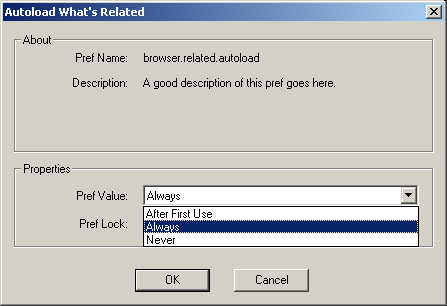
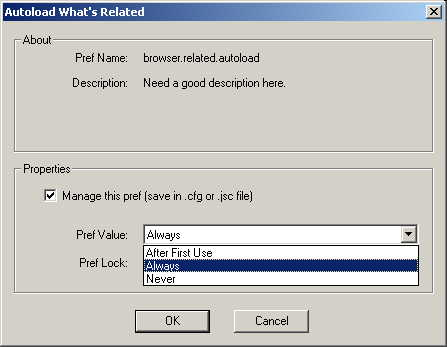
Added way to delete user-added prefs from the pref editor.

Changed region(s): [[0.0291, 0.4118, 0.9888, 0.9706], [0.0, 0.0, 0.9888, 0.2941]]

diff --git a/mozilla/cck/docs/prefstree/PrefsTreeFileFormat.htm b/mozilla/cck/docs/prefstree/PrefsTreeFileFormat.htm
@@ -1,5 +1,7 @@
 <!DOCTYPE html PUBLIC "-//W3C//DTD HTML 4.01 Transitional//EN"><html><head><meta http-equiv="content-type" content="text/html; charset=ISO-8859-1"><meta name="author" content="Steve Meredith"><title>Structure of the Pref Editor XML File for the PrefsTree Widget</title></head><body text="#000000" bgcolor="#ffffcc" link="#0000ff" alink="darkblue" vlink="#cc0000">
-<div align="Right">Removed elements <tt>INSTALLATIONFILE </tt>and <tt>PREFFILE.</tt> Changed <tt>processPrefsTree()</tt> number of params. &nbsp;&nbsp; 02 Jan 2002<br>
+<div align="right">Added <tt>useradded</tt> attribute&nbsp;&nbsp;&nbsp; 28 Jan 2002<br>
+Added the <tt>MANAGE </tt>element.&nbsp;&nbsp;&nbsp; <strike>24 Jan 2002</strike><br>
+Removed elements <tt>INSTALLATIONFILE </tt>and <tt>PREFFILE. </tt>Changed <tt>processPrefsTree()</tt> number of params. &nbsp;&nbsp; <strike>02 Jan 2002</strike><br>
 Removed <tt>choose </tt>attribute. &nbsp;&nbsp; <strike>13 Dec 2001</strike><br>
 Original version. &nbsp;&nbsp; <strike>11 Dec 2001</strike><br>
 Steve Meredith<br>
@@ -16,22 +18,45 @@ The name of the XML file is specified in the .ini section for the PrefsTree
 Widget. The default file must be located in the same directory as the <tt>WIZARDMACHINE.EXE</tt>
 . When used, a copy of the file is saved in the working config directory.
 This copy contains the changes made by the CCK/Factory user, and is used
-by the install builder to write preferences in the install image. A SCRIPT.IB
-entry must be made in order for it process the .XML file: <tt>processPrefsTree(,browser.xpi,bin/netscp6.cfg</tt><tt>)</tt>
-. Note that spaces are not allowed between the parameters. For details on
+by the install builder to write preferences in the install image. A <tt>SCRIPT.IB</tt>
+entry must be made in order for it process the .XML file: <tt>processPrefsTree(,browser.xpi,bin/netscp6.cfg</tt><tt>)</tt>. Note that spaces are not allowed between the parameters. For details on
 adding a PrefsTree control to wizard pages, see the document&nbsp;<a href="PrefsTree.htm">PrefsTree.htm</a>
 
+<h2>A Note on Prefs</h2>The XML described herein contains elements for prefs and elements to control how they are
+grouped in a UI. It was specifically designed for use in this <i>Pref Editor</i>
+tree control, but a complete representation of prefs in XML could be useful
+in other ways. But for this use, the only prefs which should be included
+in this file are prefs which can be set in advance and saved to a .cfg or .jsc file.
+Note that this excludes some prefs which might be found in a profile <tt>prefs.js</tt>
+, such as those prefs which define specific mail and news accounts, servers,
+and identities. These pref names are generated on the fly by the client.
+If this XML is to be expanded for use in other ways, for example as described
+in <a href="http://bugzilla.mozilla.org/show_bug.cgi?id=17199">Bugzilla bug 17199</a>
+, new tags could be added to each pref to indicate whether or not it could
+be set in advance and stored in a .cfg file. The Pref Editor would have to
+be modified to respect this new information and only present the appropriate
+prefs for editting. Otherwise, any new elements and attributes are ignored
+as long as the basic structure of the file remains valid (<tt>&lt;PREF&gt;</tt>s are grouped within <tt>&lt;PREFSGROUP&gt;</tt>s) and the required attributes and subelements exist.<br>
+<br>
+The following prefs should not be placed into this XML file for use in the
+prefs editor because they are handled outside the prefs editor, and used
+to point to the file created by the install builder and prefs editor.<br>
+<ul>
+  <li><tt>autoadmin.global_config_url</tt></li>
+  <li><tt>autoadmin.append_emailaddr</tt></li>
+  <li><tt>autoadmin.offline_failover</tt></li>
+</ul>
 <h2>Who This Document is For</h2>
+
 <h2></h2>
 You will need to understand the structure of the XML file if you want to
-add or remove prefs to the Pref Editor or change how they are grouped.<br>
+add or remove prefs to the Pref Editor or change how they are grouped. <br>
 <h2>Conventions</h2>
 For XML item tags, we use ALL CAPS. For attribute names, we use lower case.
 &#8220;true&#8221; and &#8220;false&#8221; are also written in lower case. Generally, for PREF items,
 the attributes are those things about the pref which are fixed, and use elements
 for thing the CCK/Factory app will change. The exception is for <tt>&lt;CHOICES&gt;</tt>, which are difficult to represent as attributes, so these are elements.<br>
-<h2>General Structure</h2>
-<h3>Example 1</h3>
+<h2>General Structure</h2><h3>Example 1</h3>
 The simplest file that may exist consists of one group containing one pref. <br>
 <br>
 <code>&lt;?xml version="1.0"?&gt;<br>
@@ -106,19 +131,19 @@ Each <tt>&lt;PREFSGROUP&gt;</tt> element will make a new level of hierarchy in t
 <table cellpadding="2" cellspacing="2" border="1" width="100%" bgcolor="#ffffff">
   <tbody>
     <tr>
-      <td valign="Top"><b>Attribute</b><br>
+      <td valign="top"><b>Attribute</b><br>
       </td>
-      <td valign="Top"><b>Example</b><br>
+      <td valign="top"><b>Example</b><br>
       </td>
-      <td valign="Top"><b>Description</b><br>
+      <td valign="top"><b>Description</b><br>
       </td>
     </tr>
     <tr>
-      <td valign="Top"><tt>uiname</tt><br>
+      <td valign="top"><tt>uiname</tt><br>
       </td>
-      <td valign="Top"><tt>uiname="Netscape Preferences"</tt><br>
+      <td valign="top"><tt>uiname="Netscape Preferences"</tt><br>
       </td>
-      <td valign="Top">This is the name of the group as it appears in the tree control. <br>
+      <td valign="top">This is the name of the group as it appears in the tree control. <br>
       </td>
     </tr>
   </tbody>
@@ -130,36 +155,36 @@ the user can edit.These elements must be contained in some <tt>&lt;PREFSGROUP&gt
 <table width="100%" border="1" cellspacing="2" cellpadding="2" bgcolor="#ffffff">
   <tbody>
     <tr>
-      <td valign="Top"><b>Attribute</b><br>
+      <td valign="top"><b>Attribute</b><br>
       </td>
-      <td valign="Top"><b>Example</b><br>
+      <td valign="top"><b>Example</b><br>
       </td>
-      <td valign="Top"><b>Description</b><br>
+      <td valign="top"><b>Description</b><br>
       </td>
     </tr>
     <tr>
-      <td valign="Top"><tt>uiname</tt><br>
+      <td valign="top"><tt>uiname</tt><br>
       </td>
-      <td valign="Top"><code>uiname="Open Browser on Startup"</code><br>
+      <td valign="top"><code>uiname="Open Browser on Startup"</code><br>
       </td>
-      <td valign="Top">This is the name of the pref as is appears in the
+      <td valign="top">This is the name of the pref as is appears in the
 tree control. It doesn't have to be the name of the pref--it should be something
 easy for the user to understand.<br>
       </td>
     </tr>
     <tr>
-      <td valign="Top"><tt>prefname</tt><br>
+      <td valign="top"><tt>prefname</tt><br>
       </td>
-      <td valign="Top"><code>prefname="general.startup.browser"</code></td>
-      <td valign="Top">This is the real name of the pref as it is used by the Netscape client products.<br>
+      <td valign="top"><code>prefname="general.startup.browser"</code></td>
+      <td valign="top">This is the real name of the pref as it is used by the Netscape client products.<br>
       </td>
     </tr>
     <tr>
-      <td valign="Top"><tt>type</tt><br>
+      <td valign="top"><tt>type</tt><br>
       </td>
-      <td valign="Top"><code>type="bool"</code><br>
+      <td valign="top"><code>type="bool"</code><br>
       </td>
-      <td valign="Top">Must be one of <b><tt>int</tt></b>, <b><tt>bool</tt></b>, or <b><tt>string</tt></b>. This determines how the pref will be edited in the Pref Editor and how it is written to the prefs file in the install image.<br>
+      <td valign="top">Must be one of <b><tt>int</tt></b>, <b><tt>bool</tt></b>, or <b><tt>string</tt></b>. This determines how the pref will be edited in the Pref Editor and how it is written to the prefs file in the install image.<br>
       <br>
       <tt><b>bool</b> </tt>Pref Editor user allowed to select &#8220;true&#8221; or &#8220;false&#8221;
 from a drop-down. No quotes are used when writing the pref in the pref file.
@@ -172,23 +197,36 @@ For example, <tt>pref("general.startup.browser", true);</tt><br>
     </tr>
     
     <tr>
-      <td valign="Top"><tt>lockable</tt><br>
+      <td valign="top"><tt>lockable</tt><br>
       </td>
-      <td valign="Top"><code>lockable="true"</code><br>
+      <td valign="top"><code>lockable="true"</code><br>
       </td>
-      <td valign="Top">Determines whether or not the Pref Editor user can change the lock state the pref.<br>
+      <td valign="top">Determines whether or not the Pref Editor user can change the lock state the pref.<br>
       </td>
     </tr>
     <tr>
-      <td valign="Top"><tt>description</tt><br>
+      <td valign="top"><tt>description</tt><br>
       </td>
-      <td valign="Top"><code>description="When the application starts, open a browser window."</code><br>
+      <td valign="top"><code>description="When the application starts, open a browser window."</code><br>
       </td>
-      <td valign="Top">This is some text which further describes the pref
+      <td valign="top">This is some text which further describes the pref
 to the Pref Editor user. It appears when the user selected the pref for editing.
-Any text which helps the user under the pref should go here.<br>
+Any text which helps the user under the pref should go here.
+ There is space in the editor for maybe 125 characters or so. Of course,
+you can edit the dialog resource to hold more if this becomes a limitation.<br>
+      </td>
+    </tr><tr>
+      <td valign="top"><tt>useradded</tt><br>
+      </td>
+      <td valign="top"><tt>useradded="true"</tt><br>
+      </td>
+      <td valign="top">This pref is added by the Pref Editor for all new
+prefs added by the user via the UI. It is normally not present, and is assumed
+to be false if missing. User added prefs are deletable via the Pref Editor
+UI.<br>
       </td>
     </tr>
+
   </tbody>
 </table>
 <h3>&lt;CHOICES&gt;</h3>
@@ -207,27 +245,27 @@ This element appears in <tt>&lt;CHOICES&gt;</tt> elements to describe one item o
 <table cellpadding="2" cellspacing="2" border="1" width="100%" bgcolor="#ffffff">
   <tbody>
     <tr>
-      <td valign="Top"><b>Attribute</b><br>
+      <td valign="top"><b>Attribute</b><br>
       </td>
-      <td valign="Top"><b>Example</b><br>
+      <td valign="top"><b>Example</b><br>
       </td>
-      <td valign="Top"><b>Description</b><br>
-      </td>
-    </tr>
-    <tr>
-      <td valign="Top"><tt>uiname</tt><br>
-      </td>
-      <td valign="Top"><code>uiname="Blank Page"</code><br>
-      </td>
-      <td valign="Top">The text of this choice in the list box for this choice.<br>
+      <td valign="top"><b>Description</b><br>
       </td>
     </tr>
     <tr>
-      <td valign="Top"><tt>value</tt><br>
+      <td valign="top"><tt>uiname</tt><br>
       </td>
-      <td valign="Top"><code>value="0"</code><br>
+      <td valign="top"><code>uiname="Blank Page"</code><br>
       </td>
-      <td valign="Top">The value saved in the <tt>&lt;VALUE&gt;</tt> element for the <tt>&lt;PREF&gt;</tt> when the pref is edit and this choice is selected in the list box. The type of the value must be correct for the enclosing <tt>&lt;PREF&gt;</tt> element.<br>
+      <td valign="top">The text of this choice in the list box for this choice.<br>
+      </td>
+    </tr>
+    <tr>
+      <td valign="top"><tt>value</tt><br>
+      </td>
+      <td valign="top"><code>value="0"</code><br>
+      </td>
+      <td valign="top">The value saved in the <tt>&lt;VALUE&gt;</tt> element for the <tt>&lt;PREF&gt;</tt> when the pref is edit and this choice is selected in the list box. The type of the value must be correct for the enclosing <tt>&lt;PREF&gt;</tt> element.<br>
       </td>
     </tr>
   </tbody>
@@ -236,5 +274,9 @@ This element appears in <tt>&lt;CHOICES&gt;</tt> elements to describe one item o
 of type. This gets modified when the user edits the pref. Note that the modified
 file is saved to the working config directory.<br>
 <h3>&lt;LOCKED&gt;</h3>One and only one must appear in a <tt>&lt;PREF&gt;</tt> element. This is <tt>true </tt>or <tt>false, </tt>depending on whether the pref is locked or not. If locked, prefs are written as <tt>lockPref()</tt> instead of <tt>pref()</tt>. See also <tt>&lt;PREF lockable="true"&gt;</tt>.<br>
-<br>
+<h3>&lt;MANAGE&gt;</h3>
+This pref is added by the pref editor, and is normally absent in a prefs
+XML file until it has been processed by the prefs editor. If the <tt>&lt;MANAGE&gt;</tt>
+ tag is present, and its value is true, then this pref will be written to
+the output prefs file when the XML is processed by the install builder app.<br>
 </body></html>

diff --git a/mozilla/cck/driver/prefeditview.cpp b/mozilla/cck/driver/prefeditview.cpp
@@ -27,6 +27,10 @@ const int bm_lockedPad = 2;
 const int bm_unlockedPad = 3;
 const int bm_unlockedPadGray = 4;
 
+// submenus
+const int menu_pref = 0;
+const int menu_group = 1;
+const int menu_userAddedPref = 2;
 /////////////////////////////////////////////////////////////////////////////
 // CPrefEditView
 
@@ -42,6 +46,7 @@ BEGIN_MESSAGE_MAP(CPrefEditView, CTreeView)
   ON_COMMAND(ID_FINDPREF, OnFindPref)
   ON_COMMAND(ID_FINDNEXTPREF, OnFindNextPref)
   ON_COMMAND(ID_ADDPREF, OnAddPref)
+  ON_COMMAND(ID_DELPREF, OnDelPref)
 	ON_WM_KEYDOWN()
 	//}}AFX_MSG_MAP
 END_MESSAGE_MAP()
@@ -610,8 +615,10 @@ void CPrefEditView::OnFindNextPref()
 // User added prefs go into the root group.
 HTREEITEM CPrefEditView::AddPref(CString& rstrPrefName, CString& rstrPrefDesc, CString& rstrPrefType)
 {
-  // Modify it.
+  // Create it.
   CPrefElement* newPref = new CPrefElement(rstrPrefName, rstrPrefDesc, rstrPrefType);
+
+  newPref->SetUserAdded(TRUE);
     
   // Add it to the tree.
   CTreeCtrl &treeCtrl = GetTreeCtrl();
@@ -662,6 +669,28 @@ void CPrefEditView::OnAddPref()
 
   }
 
+}
+
+// Delete the user-added pref.
+void CPrefEditView::OnDelPref()
+{
+  CTreeCtrl &treeCtrl = GetTreeCtrl();
+	HTREEITEM hTreeCtrlItem = treeCtrl.GetSelectedItem();
+
+  // Can't edit a pref group--only a pref (leaf).
+  if (treeCtrl.ItemHasChildren(hTreeCtrlItem))
+    return;
+
+  // If user added-pref, delete the CPrefElement that was created with new.
+  CPrefElement* pe = (CPrefElement*)treeCtrl.GetItemData(hTreeCtrlItem);
+  ASSERT(pe); // There must be a CPrefElement object for each pref in the tree.
+  if ((pe == NULL) || !pe->IsUserAdded())
+    return;
+
+  delete pe;
+
+  // Remove item from the tree.
+  treeCtrl.DeleteItem(hTreeCtrlItem);
 }
 
 // Open the edit dialog box for the selected pref item. A pref should be selected,
@@ -759,9 +788,21 @@ void CPrefEditView::OnRclick(NMHDR* pNMHDR, LRESULT* pResult)
 
       int submenu;
       if (!treeCtrl.ItemHasChildren(hTreeCtrlItem)) // no children == leaf node == pref 
-        submenu = 0;
+      {
+        CPrefElement* pe = (CPrefElement*)treeCtrl.GetItemData(hTreeCtrlItem);
+        ASSERT(pe); // there must be a CPrefElement object for each leaf node.
+        if (!pe)
+          return;
+
+        if (pe->IsUserAdded())
+          submenu = menu_userAddedPref;
+        else
+          submenu = menu_pref;
+      }
       else
-        submenu = 1;
+      {
+        submenu = menu_group;
+      }
 
       ShowPopupMenu(pt, submenu);
 		}
@@ -780,6 +821,11 @@ void CPrefEditView::OnKeyDown(UINT nChar, UINT nRepCnt, UINT nFlags)
   else if ((nChar == 0x46) && GetAsyncKeyState(VK_CONTROL)) // Ctrl+F
   {
     OnFindPref();
+  }
+
+  else if (nChar == VK_DELETE)
+  {
+    OnDelPref();
   }
 
   else

diff --git a/mozilla/cck/prefs/prefselement.cpp b/mozilla/cck/prefs/prefselement.cpp
@@ -49,6 +49,7 @@ void CPrefElement::ReInit()
   m_bLocked = FALSE;
   m_bLockable = TRUE;
   m_bManage = FALSE;
+  m_bUserAdded = FALSE;
   m_iChoices = 0;
 }
 
@@ -143,6 +144,8 @@ void CPrefElement::startElement(const char* name, const char** atts)
         m_bLockable = (stricmp(attrVal, "true") == 0);
       else if (stricmp(attrName, "description") == 0)
         m_strDescription = attrVal;
+      else if (stricmp(attrName, "useradded") == 0)
+        m_bUserAdded = (stricmp(attrVal, "true") == 0);
     }
 
   }
@@ -316,9 +319,9 @@ CString CPrefElement::XML(int iIndentSize, int iIndentLevel)
   int iIndentSpaces = iIndentSize * iIndentLevel;
 
   CString strRet;
-  strRet.Format("%*s<PREF uiname=\"%s\" prefname=\"%s\" type=\"%s\" lockable=\"%s\" description=\"%s\">\n", 
+  strRet.Format("%*s<PREF uiname=\"%s\" prefname=\"%s\" type=\"%s\" lockable=\"%s\" description=\"%s\" useradded=\"%s\">\n", 
     iIndentSpaces, " ", GetUIName(), GetPrefName(), GetPrefType(),
-    IsLockable()?"true":"false", GetPrefDescription());
+    IsLockable()?"true":"false", GetPrefDescription(), IsUserAdded()?"true":"false");
 
   CString strTmp;
   if (IsChoose())

diff --git a/mozilla/cck/prefs/prefselement.h b/mozilla/cck/prefs/prefselement.h
@@ -26,6 +26,8 @@ public:
   void SetLocked(BOOL bLocked) { m_bLocked = bLocked; };
   BOOL IsManage() { return m_bManage; };
   void SetManage(BOOL bManage) { m_bManage = bManage; };
+  BOOL IsUserAdded() { return m_bUserAdded; };
+  void SetUserAdded(BOOL bUserAdded) { m_bUserAdded = bUserAdded; };
   CString GetUIName() { return m_strUIName; };
   CString GetPrefValue() { return m_strPrefValue; };
   void SetPrefValue(CString strValue);
@@ -59,6 +61,7 @@ private:
   BOOL m_bLocked;
   BOOL m_bLockable;
   BOOL m_bManage;
+  BOOL m_bUserAdded;
 
   CString m_astrChoiceName[MAX_CHOICES+1];  // Array of possible choice names. Last is empty string.
   CString m_astrChoiceVal[MAX_CHOICES+1];   // Matching values for the above names.

diff --git a/mozilla/cck/driver/resource.h b/mozilla/cck/driver/resource.h
@@ -58,13 +58,14 @@
 #define ID_FINDPREF                     32774
 #define ID_FINDNEXTPREF                 32776
 #define ID_ADDPREF                      32777
+#define ID_DELPREF                      32778
 
 // Next default values for new objects
 // 
 #ifdef APSTUDIO_INVOKED
 #ifndef APSTUDIO_READONLY_SYMBOLS
 #define _APS_NEXT_RESOURCE_VALUE        148
-#define _APS_NEXT_COMMAND_VALUE         32778
+#define _APS_NEXT_COMMAND_VALUE         32779
 #define _APS_NEXT_CONTROL_VALUE         1020
 #define _APS_NEXT_SYMED_VALUE           101
 #endif

diff --git a/mozilla/cck/driver/prefeditview.h b/mozilla/cck/driver/prefeditview.h
@@ -68,6 +68,7 @@ protected:
   afx_msg void OnFindPref();
   afx_msg void OnFindNextPref();
   afx_msg void OnAddPref();
+  afx_msg void OnDelPref();
 	afx_msg void OnRclick(NMHDR* pNMHDR, LRESULT* pResult);
   afx_msg void OnKeyDown(UINT nChar, UINT nRepCnt, UINT nFlags);
 
